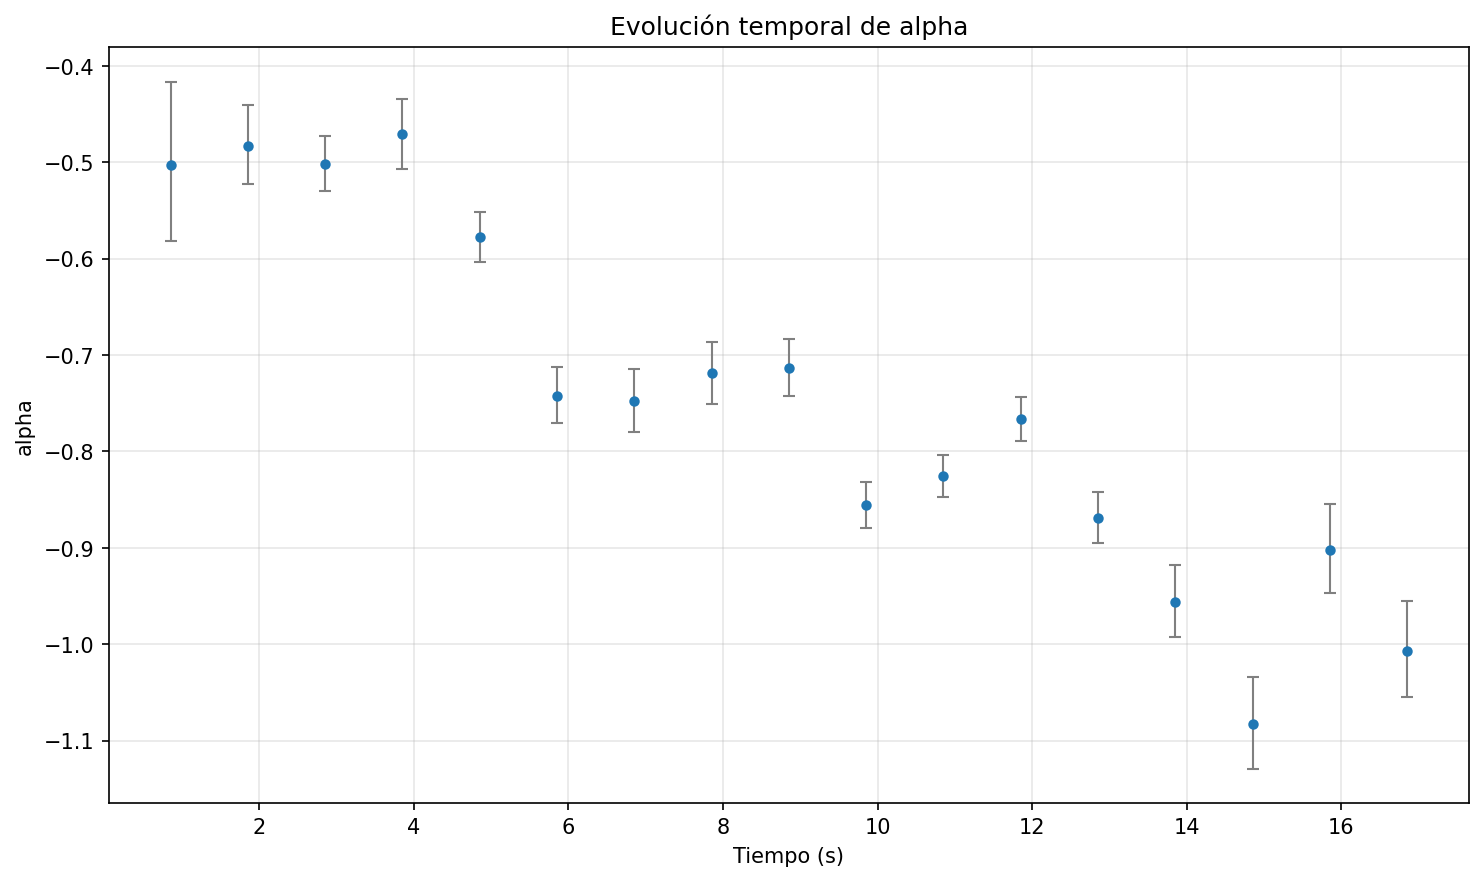
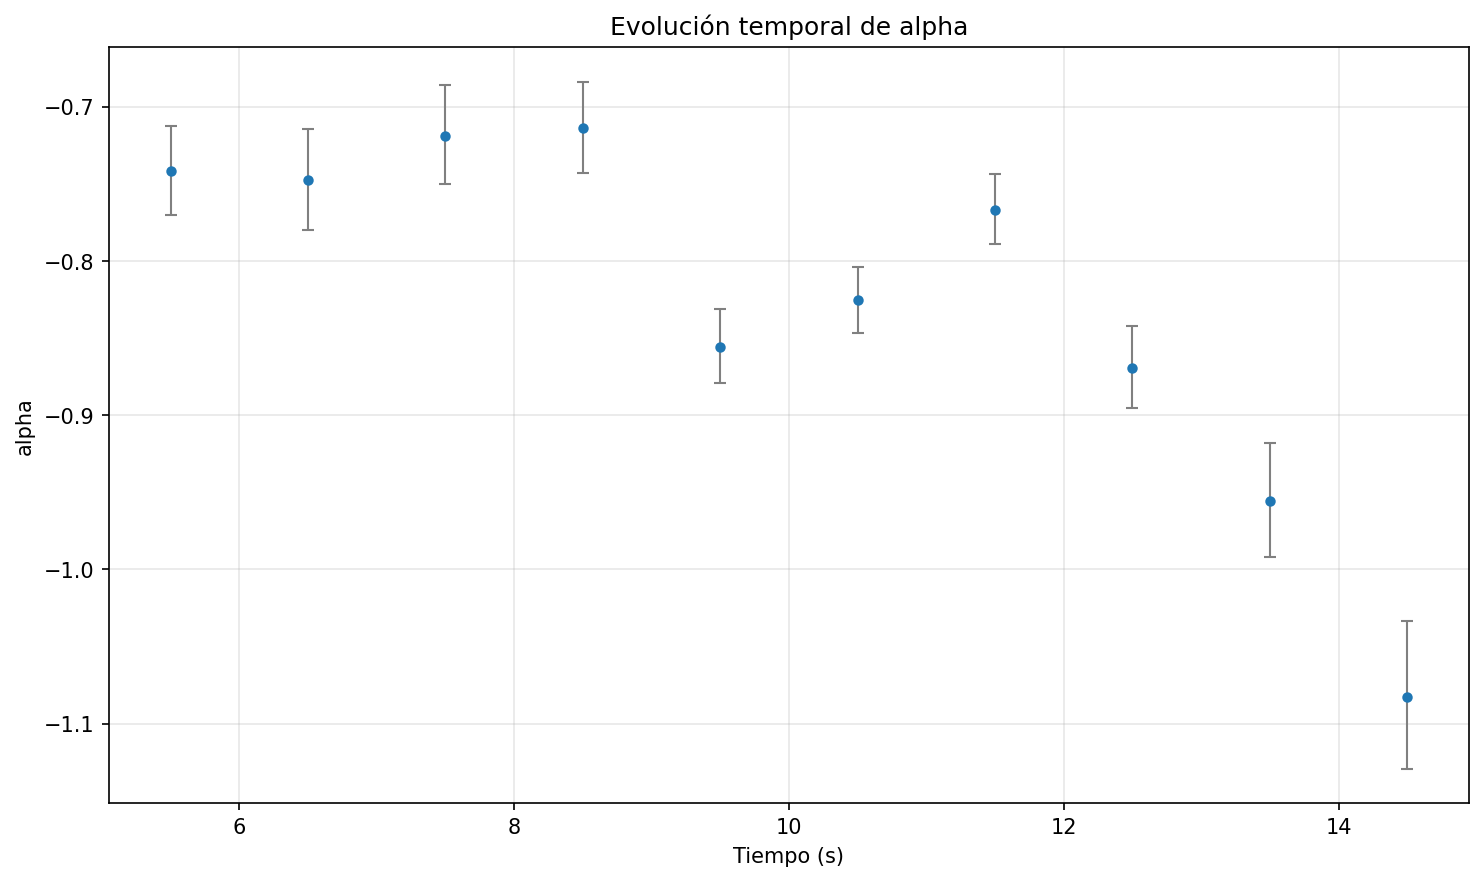
v 1.1

diff --git a/src/spectral_fitter.py b/src/spectral_fitter.py
@@ -4,7 +4,7 @@ import numpy as np
 from typing import List, Dict, Tuple, Optional
 from copy import deepcopy
 
-from gdt.core.spectra.functions import Band
+from gdt.core.spectra.functions import Band, PowerLaw, Comptonized, BlackBody
 from gdt.core.spectra.fitting import SpectralFitterCstat
 from gdt.missions.fermi.gbm.collection import GbmDetectorCollection
 
@@ -15,44 +15,80 @@ class SpectralFitterManager:
     
     def __init__(self, config_manager: ConfigManager):
         self.config = config_manager
+        self.model_template = None  # Plantilla del modelo
+        self.model_expression = None
+        self.eval_indices = None
         
-    def create_model(self) -> Band:
-        """Crea y configura un nuevo modelo Band"""
-        model_params = self.config.get_model_params()
+    def initialize_model(self):
+        """Inicializa el modelo una sola vez al inicio del análisis"""
+        fit_params = self.config.get_fitting_params()
+        self.model_expression = fit_params.get('model_expression')
         
-        model = Band()
+        if not self.model_expression:
+            raise ValueError("Debe especificar 'model_expression' en config.yaml")
         
-        # Convertir 'inf' string a np.inf si es necesario
-        min_values = model_params['min_values']
-        max_values = model_params['max_values']
+        print(f"   Modelo: {self.model_expression}")
         
-        # Asegurarse de que 'inf' se convierta a np.inf
-        min_values = [float(v) if v != 'inf' else np.inf for v in min_values]
-        max_values = [float(v) if v != 'inf' else np.inf for v in max_values]
+        # Crear entorno seguro con los modelos disponibles
+        available_models = {
+            'Band': Band,
+            'PowerLaw': PowerLaw,
+            'Comptonized': Comptonized,
+            'BlackBody': BlackBody,
+        }
         
-        model.min_values = min_values
-        model.max_values = max_values
-        model.default_values = model_params['default_values']
-        model.fix = model_params['fixed']
+        safe_dict = {model: available_models[model] for model in available_models}
         
-        print(f"   Modelo Band creado:")
-        print(f"   Parámetros fijos: {model.fix}")
-        print(f"   Valores por defecto: {model.default_values}")
+        try:
+            # Crear el modelo base desde la expresión
+            model = eval(self.model_expression, {"__builtins__": {}}, safe_dict)
+        except Exception as e:
+            raise ValueError(f"Error creando modelo: {e}")
+        
+        # Configurar parámetros si se especifican en YAML
+        if 'min_values' in fit_params:
+            min_vals = [float(v) if v != 'inf' else np.inf for v in fit_params['min_values']]
+            model.min_values = min_vals
+            
+        if 'max_values' in fit_params:
+            max_vals = [float(v) if v != 'inf' else np.inf for v in fit_params['max_values']]
+            model.max_values = max_vals
+            
+        if 'default_values' in fit_params:
+            model.default_values = fit_params['default_values']
+            
+        if 'fixed' in fit_params:
+            model.fix = fit_params['fixed']
+        
+        # Guardar plantilla del modelo
+        self.model_template = model
+        
+        # Obtener índices a evaluar
+        self.eval_indices = fit_params.get('eval_indices')
+        if not self.eval_indices:
+            raise ValueError("Debe especificar 'eval_indices' en config.yaml")
+        
+        print(f"   Evaluando índices: {self.eval_indices}")
         
         return model
     
+    def create_model_for_interval(self):
+        """Crea una copia nueva del modelo para cada intervalo"""
+        if self.model_template is None:
+            self.initialize_model()
+        
+        # Crear una copia profunda del modelo para no modificar la plantilla
+        return deepcopy(self.model_template)
+    
     def precompute_responses(self, rsps: GbmDetectorCollection, 
                             time_ranges: List[Tuple[float, float]]) -> List:
-        """Precalcula respuestas interpoladas para cada intervalo"""
+        """Precalcula respuestas interpoladas"""
         print(f"Precalculando respuestas para {len(time_ranges)} intervalos...")
         
         rsps_interpoladas = []
-        for i, (t0, t1) in enumerate(time_ranges):
+        for t0, t1 in time_ranges:
             tcent = (t0 + t1) / 2
             rsps_interpoladas.append([rsp.interpolate(tcent) for rsp in rsps])
-            
-            if i % 10 == 0 and i > 0:
-                print(f"   {i}/{len(time_ranges)} intervalos procesados")
         
         print("Respuestas precalculadas")
         return rsps_interpoladas
@@ -62,32 +98,32 @@ class SpectralFitterManager:
                     rsps_interp: List, 
                     t0: float, t1: float) -> Optional[Dict]:
         """
-        Realiza ajuste espectral para un intervalo específico
+        Ajusta un intervalo
         """
         fit_params = self.config.get_fitting_params()
-        fit_options = fit_params['fit_options']
-        max_fit_time = fit_params['max_fit_time']
-        error_threshold = fit_params['relative_error_threshold']
+        fit_options = fit_params.get('fit_options', {})
+        max_fit_time = fit_params.get('max_fit_time', 10)
+        error_threshold = fit_params.get('relative_error_threshold', 0.2)
         
         try:
-            # Crear un NUEVO modelo para cada ajuste
-            model = self.create_model()
+            # Crear una nueva instancia del modelo para este intervalo
+            model = self.create_model_for_interval()
             
             # Crear fitter
             fitter = SpectralFitterCstat(
-                phas, bkgds.to_list(), rsps_interp, method=fit_options['method']
+                phas, bkgds.to_list(), rsps_interp, method=fit_options.get('method', 'TNC')
             )
             
             start_time = time.time()
             
             # Intentar ajuste
             try:
-                fitter.fit(model, options={'maxiter': fit_options['maxiter']})
+                fitter.fit(model, options={'maxiter': fit_options.get('maxiter', 500)})
             except Exception as e:
                 print(f"Error en ajuste {t0:.3f}-{t1:.3f}: {e}")
                 return None
             
-            # Verificar timeout
+            # Timeout
             if time.time() - start_time > max_fit_time:
                 print(f"Timeout en ajuste {t0:.3f}-{t1:.3f}")
                 return None
@@ -98,7 +134,7 @@ class SpectralFitterManager:
                 return None
             
             if fitter.covariance is None or np.isnan(fitter.covariance).any():
-                print(f"Covarianza inválida en {t0:.3f}-{t1:.3f}")
+                print(f"Covarianza invalida en {t0:.3f}-{t1:.3f}")
                 return None
             
             # Calcular errores
@@ -106,58 +142,54 @@ class SpectralFitterManager:
             params = np.array(fitter.parameters)
             
             if len(errs) != len(params):
-                print(f"Inconsistencia en errores/parámetros en {t0:.3f}-{t1:.3f}")
+                print(f"Inconsistencia en errores/parametros en {t0:.3f}-{t1:.3f}")
                 return None
             
+            # Calcular errores relativos
             eps = 1e-10
             rel_errs = np.mean(
                 np.abs(errs) / np.maximum(np.abs(params[:, None]), eps),
                 axis=1
             )
             
-            # Evaluar errores de alpha y Epeak
-            indices_eval = [1, 2]  # Epeak y alpha
-            rel_errs_eval = rel_errs[indices_eval]
+            # Evaluar errores en los índices especificados
+            rel_errs_eval = rel_errs[self.eval_indices]
             max_rel = np.max(rel_errs_eval)
             
             # Guardar si errores aceptables
             if max_rel < error_threshold:
                 res = self._create_result_dict(t0, t1, fitter, model, errs, rel_errs)
-                print(f"{t0:.3f}–{t1:.3f} s: ✅ Fit guardado (C-stat={fitter.statistic:.1f})")
+                print(f"{t0:.3f}–{t1:.3f} s: Fit guardado")
                 return res
             else:
-                print(f"{t0:.3f}–{t1:.3f} s: ❌ Errores grandes ({max_rel*100:.1f}%)")
+                print(f"{t0:.3f}–{t1:.3f} s: Errores grandes ({max_rel*100:.1f}%)")
                 return None
                 
         except Exception as e:
-            print(f"Error crítico en {t0}-{t1}: {e}")
-            import traceback
-            traceback.print_exc()
+            print(f"Error en {t0}-{t1}: {e}")
             return None
     
     def _create_result_dict(self, t0: float, t1: float, 
-                          fitter: SpectralFitterCstat, model: Band,
+                          fitter: SpectralFitterCstat, model,
                           errs: np.ndarray, rel_errs: np.ndarray) -> Dict:
-        """Crea diccionario estructurado con resultados"""
+        """Crea diccionario con resultados"""
         res = {
             "t_start": t0,
             "t_stop": t1,
             "Cstat": fitter.statistic,
             "dof": fitter.dof,
-            "Cstat_dof": fitter.statistic / fitter.dof,
         }
         
         # Parámetros y errores
-        param_names = [name[0] for name in model.param_list]
-        for name, val in zip(param_names, fitter.parameters):
-            res[name] = float(val)
+        for name, val in zip(model.param_list, fitter.parameters):
+            res[name[0]] = float(val)
         
-        for i, (name, val) in enumerate(zip(param_names, fitter.parameters)):
+        for i, (name, val) in enumerate(zip(model.param_list, fitter.parameters)):
             err_low, err_high = errs[i]
             rel_err_mean = rel_errs[i] * 100
-            res[f"{name}_err_low"] = float(err_low)
-            res[f"{name}_err_high"] = float(err_high)
-            res[f"{name}_err_rel(%)"] = float(rel_err_mean)
+            res[f"{name[0]}_err_low"] = float(err_low)
+            res[f"{name[0]}_err_high"] = float(err_high)
+            res[f"{name[0]}_err_rel(%)"] = float(rel_err_mean)
         
         return res
     
@@ -170,19 +202,21 @@ class SpectralFitterManager:
         """
         Ejecuta análisis espectral completo
         """
-        print("⚡ Ejecutando análisis espectral...")
+        print("Ejecutando analisis espectral...")
+        
+        # Inicializar el modelo una sola vez
+        self.initialize_model()
         
         # Precalcular respuestas
         rsps_interpoladas = self.precompute_responses(rsps, time_ranges)
         
         results = []
-        valid_count = 0
         
         # Procesar cada intervalo
         for i, (t0, t1) in enumerate(time_ranges):
             print(f"   Intervalo {i+1}/{len(time_ranges)}: {t0:.3f}–{t1:.3f} s", end=" ")
             
-            # Extraer datos PHA para el intervalo
+            # Extraer datos PHA
             phas = cspecs.to_pha(
                 time_ranges=[(t0, t1)],
                 nai_kwargs={'energy_range': erange_nai},
@@ -192,14 +226,14 @@ class SpectralFitterManager:
             # Obtener respuestas interpoladas
             rsps_interp = rsps_interpoladas[i]
             
-            # Ajustar espectro (se crea un nuevo modelo dentro de fit_interval)
+            # Ajustar
             result = self.fit_interval(phas, bkgds, rsps_interp, t0, t1)
             
             if result:
                 results.append(result)
-                valid_count += 1
+                print("Fit guardado")
             else:
-                print("❌ Fit falló")
+                print("Fit fallo")
         
-        print(f"✅ Análisis espectral completado: {valid_count}/{len(time_ranges)} ajustes válidos")
+        print(f"Analisis espectral completado: {len(results)}/{len(time_ranges)} ajustes validos")
         return results

diff --git a/src/gbm_analysis.py b/src/gbm_analysis.py
@@ -98,16 +98,52 @@ class GBMAnalysis:
         if self.burst_start is None or self.burst_end is None:
             raise ValueError("Burst debe detectarse primero")
         
-        time_interval = self.config.get_fitting_params()['time_interval']
-        time_edges = np.arange(self.burst_start, self.burst_end, time_interval)
+        # Obtener configuración
+        fit_params = self.config.get_fitting_params()
+        time_interval = fit_params.get('time_interval', 1.0)
+        
+        # Obtener rango de análisis (manual o automático)
+        analysis_start = fit_params.get('analysis_start')
+        analysis_stop = fit_params.get('analysis_stop')
+        
+        # Determinar inicio del análisis
+        if analysis_start is not None:
+            start = float(analysis_start)
+            print(f"   Usando inicio MANUAL: {start:.2f} s")
+        else:
+            start = self.burst_start
+            print(f"   Usando inicio DETECTADO: {start:.2f} s")
+        
+        # Determinar fin del análisis
+        if analysis_stop is not None:
+            stop = float(analysis_stop)
+            print(f"   Usando fin MANUAL: {stop:.2f} s")
+        else:
+            stop = self.burst_end
+            print(f"   Usando fin DETECTADO: {stop:.2f} s")
+        
+        # Verificar que el rango sea válido
+        if start >= stop:
+            raise ValueError(f"Rango inválido: start={start:.2f} >= stop={stop:.2f}")
+        
+        # Verificar que esté dentro del burst detectado (solo advertencia)
+        if start < self.burst_start:
+            print(f"   Advertencia: Inicio del análisis ({start:.2f}) es ANTES del burst detectado ({self.burst_start:.2f})")
+        
+        if stop > self.burst_end:
+            print(f"   Advertencia: Fin del análisis ({stop:.2f}) es DESPUÉS del burst detectado ({self.burst_end:.2f})")
+        
+        # Generar intervalos
+        time_edges = np.arange(start, stop, time_interval)
         
         self.time_ranges = [
             (t, t + time_interval) 
             for t in time_edges 
-            if t + time_interval <= self.burst_end
+            if t + time_interval <= stop
         ]
         
-        print(f"   Intervalo del burst: {self.burst_start:.2f} - {self.burst_end:.2f} s")
+        print(f"   Intervalo de análisis: {start:.2f} - {stop:.2f} s")
+        print(f"   Duración total: {stop - start:.2f} s")
         print(f"   Tamaño de bin: {time_interval} s")
         print(f"   Número de intervalos: {len(self.time_ranges)}")
         
